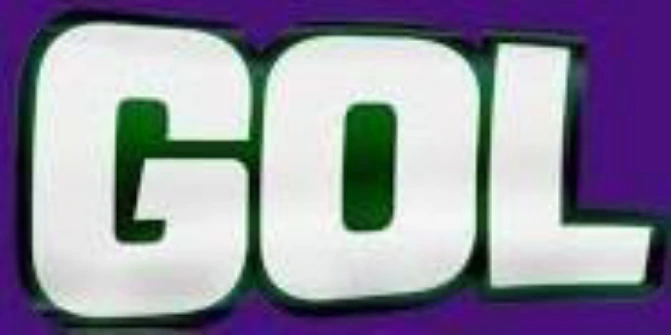
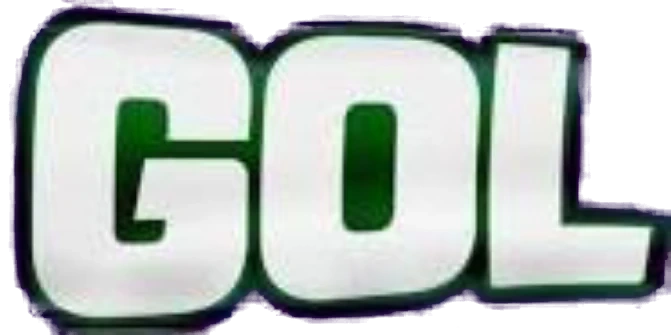
fix: los logotipos de marca se funden con el fondo en vez de verse como recuadros
La mayoría de los archivos de src/assets/marcas/ no son logotipos recortados
sino capturas sobre fondo blanco, así que en la franja del inicio, que va sobre
el gris de marca, cada uno se veía como un recuadro pegado encima.

La solución general es `mix-blend-mode: multiply` en .logo-marca: multiplicar
por el fondo deja el blanco puro exactamente en el color del fondo y no toca el
dibujo. Se prefiere al recorte archivo por archivo porque sigue funcionando si
cambia el color de la sección.

El blend por sí solo no bastaba. `.marquee-marcas__pista` lleva will-change y
`.marquee-marcas` lleva una máscara, y los dos crean contexto de apilamiento:
el grupo arrancaba transparente y los logotipos no tenían contra qué
multiplicar. Repetir el fondo de la sección en la pista es lo que lo habilita.

También se quita el drop-shadow del hover de la franja: sobre imágenes opacas
la sombra seguía el borde del archivo, no la silueta, y dibujaba justo el
recuadro que este cambio esconde.

De los 31 archivos, solo tres tenían un fondo que no era blanco puro. Bénet
(gris azulado) y Gol (morado) se recortaron a transparencia con el nuevo
scripts/limpiar-fondo-logos.mjs. Chocolate Santander no se puede recortar: su
texto es blanco sobre marrón y quitarle el fondo lo dejaría invisible sobre una
sección clara, así que se muestra como placa opaca con las esquinas redondeadas
(.logo-marca--placa, elegida por logoLlevaFondoPropio).
[…]

Changed region(s): [[0.0, 0.0, 1.0, 1.0], [0.2683, 0.7463, 1.0, 1.0]]

diff --git a/src/styles/global.css b/src/styles/global.css
@@ -278,11 +278,50 @@
 
      El tamano NO se pone aqui: cada logotipo lo calcula su pagina con
      altoSeguroLogo (src/lib/imagenes.ts) y lo aplica <Image>, para que
-     ninguno se muestre por encima de su resolucion real. */
+     ninguno se muestre por encima de su resolucion real.
+
+     EL FONDO BLANCO. La mayoria de estos archivos no son logotipos recortados
+     sino recortes sobre fondo blanco, asi que sobre una seccion de color se
+     veian como un recuadro pegado encima. `mix-blend-mode: multiply` lo
+     resuelve sin tocar ni un archivo: multiplicar por el fondo deja el blanco
+     puro exactamente en el color del fondo, y el dibujo, que es mas oscuro,
+     casi igual. Se prefiere al recorte uno por uno porque sigue funcionando
+     si manana cambia el color de la seccion.
+
+     OJO al contexto de apilamiento: el blend solo ve el fondo que este DENTRO
+     de su mismo grupo. Cualquier ancestro con transform, filter, mask,
+     will-change u opacity crea uno nuevo y lo aisla. Por eso la franja del
+     inicio le pone fondo propio a .marquee-marcas__pista (ver index.astro):
+     sin eso el multiply no tiene contra que mezclarse y no hace nada. */
   .logo-marca {
     max-width: 100%;
     object-fit: contain;
     filter: contrast(1.06) saturate(1.04);
+    mix-blend-mode: multiply;
+  }
+
+  /* Multiply es para fondo claro: sobre uno oscuro el logotipo se hundiria
+     hasta desaparecer. Dentro de un bloque oscuro se apaga el blend y se
+     confia en el archivo tal cual. Hoy ningun logotipo de marca cae en un
+     .sobre-oscuro; la regla esta para que el dia que pase no rompa. */
+  .sobre-oscuro .logo-marca {
+    mix-blend-mode: normal;
+  }
+
+  /* --- Logotipo que trae su propio fondo de color -------------------------
+     Excepcion para los archivos que NO son un dibujo sobre blanco sino una
+     placa de color entera. Hoy solo Chocolate Santander: su texto es blanco
+     sobre marron, asi que ni el multiply ni un recorte a transparencia
+     sirven; quitarle el marron lo dejaria invisible sobre una seccion clara.
+
+     En vez de disimularlo, se asume: sin blend y con las esquinas redondeadas,
+     para que se lea como una placa de marca puesta a proposito y no como un
+     recorte mal hecho. Cuando aparezca un logotipo con fondo limpio, se borra
+     la marca de MARCAS_CON_FONDO_PROPIO (src/lib/imagenes.ts) y esta clase
+     deja de aplicarse sola. */
+  .logo-marca--placa {
+    mix-blend-mode: normal;
+    border-radius: 6px;
   }
 
   /* --- La direccion de la sede, cuando es enlace --------------------------

diff --git a/src/lib/imagenes.ts b/src/lib/imagenes.ts
@@ -156,6 +156,32 @@ export function logoMarcaImagen(nombre: string): ImageMetadata | null {
 }
 
 /**
+ * Marcas cuyo archivo es una placa de color entera, no un dibujo sobre blanco.
+ *
+ * Los demás logotipos se funden con la sección gracias a `mix-blend-mode:
+ * multiply` (ver .logo-marca en src/styles/global.css), y los tres que traían
+ * un fondo que no era blanco puro se recortaron a transparencia con
+ * scripts/limpiar-fondo-logos.mjs. Estas son las que no admiten ninguna de las
+ * dos cosas: Chocolate Santander lleva el texto en BLANCO sobre marrón, así que
+ * al quitarle el fondo no queda nada visible sobre una sección clara.
+ *
+ * EDITAR AQUÍ: si algún día llega un logotipo de Santander con fondo limpio,
+ * basta con sacarlo de esta lista; el resto del sitio se acomoda solo.
+ */
+const MARCAS_CON_FONDO_PROPIO: ReadonlySet<string> = new Set(['santander']);
+
+/**
+ * ¿El logotipo de esta marca hay que mostrarlo como placa, sin fundirlo?
+ *
+ * Quien la use añade la clase `logo-marca--placa`, que apaga el blend y
+ * redondea las esquinas para que la placa se lea como una decisión y no como
+ * un recorte olvidado.
+ */
+export function logoLlevaFondoPropio(nombre: string): boolean {
+  return MARCAS_CON_FONDO_PROPIO.has(slug(nombre));
+}
+
+/**
  * Alto al que se puede mostrar un logotipo sin agrandarlo, dentro de una caja.
  *
  * Devuelve el mayor alto que cumple tres condiciones a la vez: cabe en la
